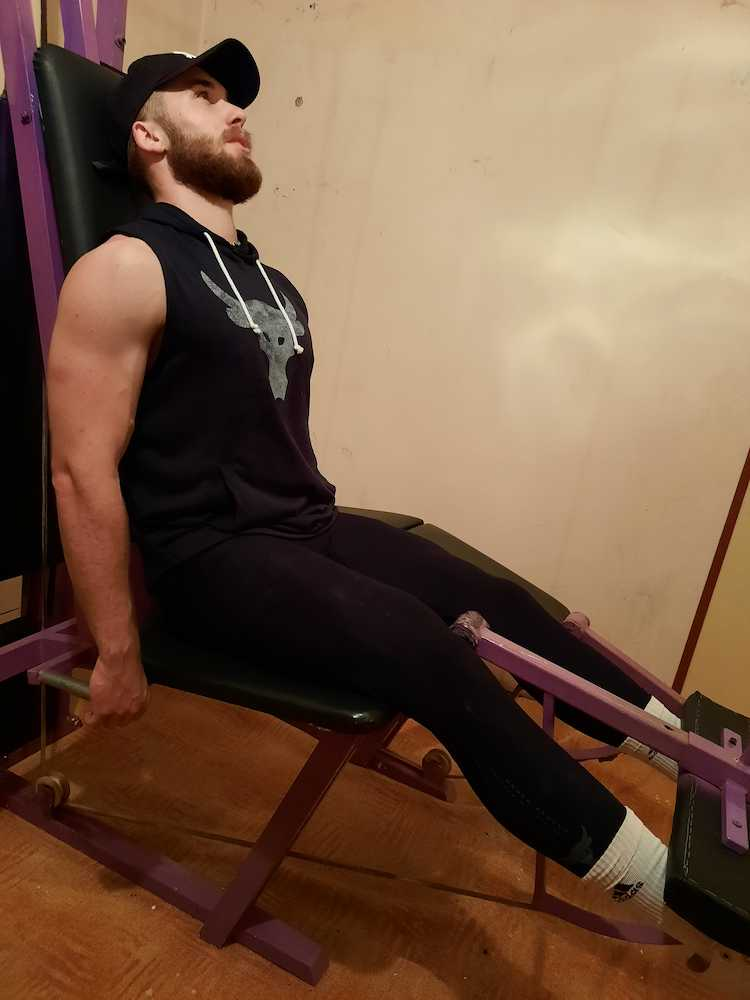
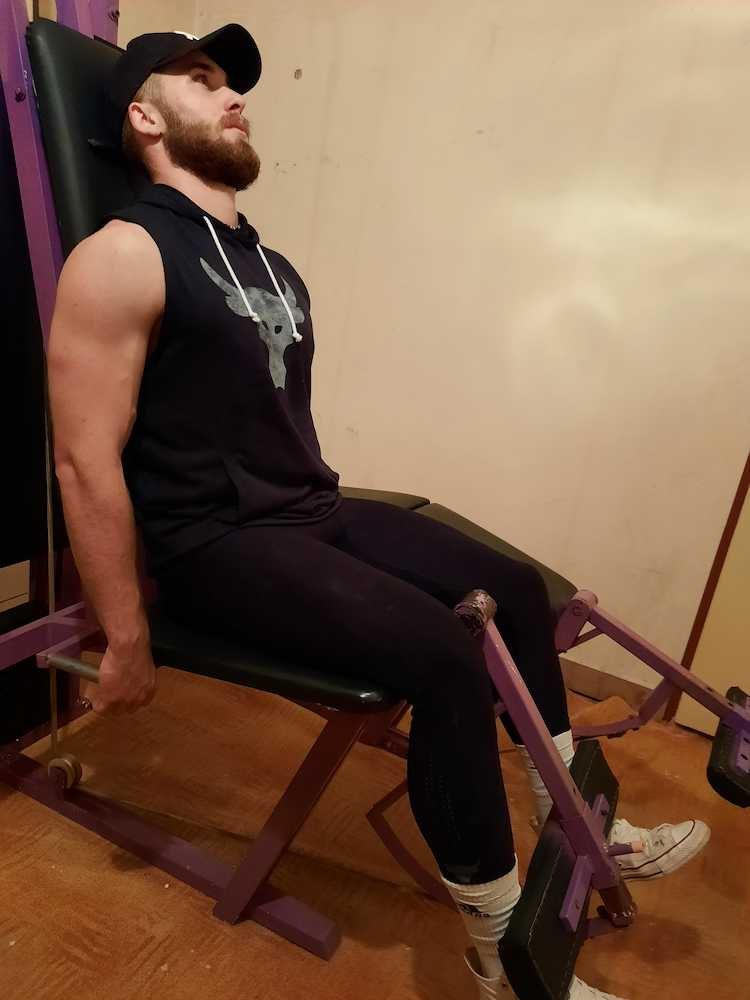
Finale

diff --git a/Stranky/ostatni.html b/Stranky/ostatni.html
@@ -69,10 +69,10 @@
                     </section>
                     <section class="galerie">
                         <div>
-                            <img src="../Obrazky/Ostatni/Ramena/Tlaky/Tlaky.jpg">
+                            <img src="../Obrazky/Ostatni/Ramena/Tlaky/Tlaky.jpg" title="Dolní poloha" width="288" height="384">
                         </div>
                         <div>
-                            <img src="../Obrazky/Ostatni/Ramena/Tlaky/Tlaky2.jpg">
+                            <img src="../Obrazky/Ostatni/Ramena/Tlaky/Tlaky2.jpg" title="Horní Poloha" width="288" height="384">
                         </div>
                     </section>
                 </article>
@@ -82,20 +82,25 @@
                     <section>
                         <section>
                             <h2>Bicepsové zdvihy</h2>
+                            <p>Bicepsové svaly jsou jedním z mála partií které lze jen obtížně cvičit komplexně (spolu s dalšími partiemi).</p>
+                            <p>Tento cvik je velmi populární a lze ho vidět i v mnoha filmech. I přes jeho popularitu ho mnoho lidí vykonává s chybama a tím zbytečně snižuje účinost cviku.</p>
+                            <p>Celí cvik provádíme ve stoje. Výchozí pozicí nejsou plně napjaté ruce, ale mírně pokrčené (při plném napnutí nám již svaly plně nepracují ale zátěž přebírají šlachy a klouby).</p>
+                            <p>Při pohybu rukou nahoru dbáme na lokty které by se neměli hýbat. Jejich pohybem zapojujeme další svaly a tím snižujeme práci bicepsu.</p>
+                            <p>Dále se při pohybu a především dotahu nesmíme hýbat v trupu. Ačkoli nám to může pomoci zvýšit zátěž může zde vznikat několik dalších problémů a opět snižujeme zatížení námi požadovaného bicepsu.</p>
                         </section>
                     </section>
                     <section class="galerie">
                         <div>
-                            <img src="../Obrazky/Ostatni/Biceps/Klasicke1.jpg">
+                            <img src="../Obrazky/Ostatni/Biceps/Klasicke1.jpg" title="Dolní poloha" width="288" height="384">
                         </div>
                         <div>
-                            <img src="../Obrazky/Ostatni/Biceps/Klasicke2.jpg">
+                            <img src="../Obrazky/Ostatni/Biceps/Klasicke2.jpg" title="Mezipoloha" width="288" height="384">
                         </div>
                         <div>
-                            <img src="../Obrazky/Ostatni/Biceps/Klasicke3.jpg">
+                            <img src="../Obrazky/Ostatni/Biceps/Klasicke3.jpg" title="Horní Poloha" width="288" height="384">
                         </div>
                         <div>
-                            <img src="../Obrazky/Ostatni/Biceps/Klasicke4.jpg">
+                            <img src="../Obrazky/Ostatni/Biceps/Klasicke4.jpg" title="Pohled ze předu" width="288" height="384">
                         </div>
                     </section>
                 </article>
@@ -104,19 +109,26 @@
                 <article>
                     <section>
                         <h2>Bicepsové kladivové zdvihy</h2>
+                        <p>Cvik téměř stejný jako bicepsové zdvihy. Jedinou výraznou změnou je větší zapojení předloktí.</p>
+                        <p>Jinak opět:</p>
+                        <p>Bicepsové svaly jsou jedním z mála partií které lze jen obtížně cvičit komplexně (spolu s dalšími partiemi).</p>
+                        <p>Tento cvik je velmi populární a lze ho vidět i v mnoha filmech. I přes jeho popularitu ho mnoho lidí vykonává s chybama a tím zbytečně snižuje účinost cviku.</p>
+                        <p>Celí cvik provádíme ve stoje. Výchozí pozicí nejsou plně napjaté ruce, ale mírně pokrčené (při plném napnutí nám již svaly plně nepracují ale zátěž přebírají šlachy a klouby).</p>
+                        <p>Při pohybu rukou nahoru dbáme na lokty které by se neměli hýbat. Jejich pohybem zapojujeme další svaly a tím snižujeme práci bicepsu.</p>
+                        <p>Dále se při pohybu a především dotahu nesmíme hýbat v trupu. Ačkoli nám to může pomoci zvýšit zátěž může zde vznikat několik dalších problémů a opět snižujeme zatížení námi požadovaného bicepsu.</p>
                     </section>
                     <section class="galerie">
                         <div>
-                            <img src="../Obrazky/Ostatni/Biceps/Kladivove1.jpg">
+                            <img src="../Obrazky/Ostatni/Biceps/Kladivove1.jpg" title="Dolní poloha" width="288" height="384">
                         </div>
                         <div>
-                            <img src="../Obrazky/Ostatni/Biceps/Kladivove2.jpg">
+                            <img src="../Obrazky/Ostatni/Biceps/Kladivove2.jpg" title="Mezipoloha" width="288" height="384">
                         </div>
                         <div>
-                            <img src="../Obrazky/Ostatni/Biceps/Kladivove3.jpg">
+                            <img src="../Obrazky/Ostatni/Biceps/Kladivove3.jpg" title="Horní Poloha" width="288" height="384">
                         </div>
                         <div>
-                            <img src="../Obrazky/Ostatni/Biceps/Kladivove4.jpg">
+                            <img src="../Obrazky/Ostatni/Biceps/Kladivove4.jpg" title="Pohled ze předu" width="288" height="384">
                         </div>
                     </section>
                 </article>
@@ -124,17 +136,20 @@
             <section class="obsah">
                 <article class="reversed">
                     <section>
-                        <h2>Kliky na bradlech</h2>
+                        <h2>Kliky na bradlech / dipy</h2>
+                        <p>Jak už český název napovídá jedná se svým způsobem o variantu kliků. Oproti standartním klikům zapojujeme v mnohem větší míře horní polovinu těla a střed. Hlavně je zapojen velký prsní sval a triceps.</p>
+                        <p>Cvik se z důvodů náročnosti na minimální sílu standartně dělá pouze s vlastní vahou. Pokud jsme již zkušenější lze přes pásek přidávat váhu pro zvýšení obtížnosti.</p>
+                        <p>Opět po celou dobu cviku máme zpevněné břicho. Z výchozí polohy se pomalu stabilně spouštíme dolů. Stále jsme přitom napřímení, hrudník vypínáme, hledíme stále před sebe. Tělo můžeme pustit do mírného náklonu dopředu.</p>
                     </section>
                     <section class="galerie">
                         <div>
-                            <img src="../Obrazky/Ostatni/Triceps/Dipy1.jpg">
+                            <img src="../Obrazky/Ostatni/Triceps/Dipy1.jpg" title="Horní Poloha" width="288" height="384">
                         </div>
                         <div>
-                            <img src="../Obrazky/Ostatni/Triceps/Dipy2.jpg">
+                            <img src="../Obrazky/Ostatni/Triceps/Dipy2.jpg" title="Mezipoloha" width="288" height="384">
                         </div>
                         <div>
-                            <img src="../Obrazky/Ostatni/Triceps/Dipy3.jpg">
+                            <img src="../Obrazky/Ostatni/Triceps/Dipy3.jpg" title="Dolní poloha" width="288" height="384">
                         </div>
                     </section>
                 </article>
@@ -142,17 +157,21 @@
             <section class="obsah">
                 <article>
                     <section>
-
+                        <h2>Stahování kladky s lanem</h2>
+                        <p>Při cviku by nohy měly být přibližně na šíři ramen, záda narovnaná, břicho zatažené jako u většiny dalších cviků. Lano přibližně v úrovni hrudníku. </p>
+                        <p>Důležité je mít lokty u těla a při celém cviku s nima nehýbat.</p>
+                        <p>Pomalu stahujeme lano dolu, kde na zlomek vteřiny zatněme tricepsy případně si pomůžeme zápěstím pro zvětšení rozsahu.</p>
+                        <p>Lokty by měly být stále v poloze u těla a pomalu povolujeme lano a vracíme se nahoru do výchozí polohy.</p>
                     </section>
                     <section class="galerie">
                         <div>
-                            <img src="../Obrazky/Ostatni/Triceps/Kladka1.jpg">
+                            <img src="../Obrazky/Ostatni/Triceps/Kladka1.jpg" title="Horní Poloha" width="288" height="384">
                         </div>
                         <div>
-                            <img src="../Obrazky/Ostatni/Triceps/Kladka2.jpg">
+                            <img src="../Obrazky/Ostatni/Triceps/Kladka2.jpg" title="Mezipoloha" width="288" height="384">
                         </div>
                         <div>
-                            <img src="../Obrazky/Ostatni/Triceps/Kladka3.jpg">
+                            <img src="../Obrazky/Ostatni/Triceps/Kladka3.jpg" title="Dolní poloha" width="288" height="384">
                         </div>
                     </section>
                 </article>

diff --git a/Stranky/prsa.html b/Stranky/prsa.html
@@ -62,13 +62,25 @@
                 <article>
                     <section>
                         <h2>Bench press</h2>
-                        <p>Velmi efektivní na budování svalového objemu a síly prsních svalů, tricepsů a ramen.</p>
-                        <p>Primárně jsou zapojeny prsa, ramena a triceps. Kromě těchto svalů se zapojují i zadní ramena, hamstringy, gluteály, mezilopatkové svaly a široké svaly zádové.</p>
-                        <p>Celý cvik se provádí v leže na lavici. Nohy na zemi (Některé varianty se provádí bez dotyku na zem) záda mírně prohnuté tzv. most (nedoporučuje se dělat do extrému může dojít ke zranění) lopatky k sobě. Úchop záleží na variantě (úzký / široký).</p>
-                        <ol title="Nejčastější chyby: ">
-                            <li>Ohýbání zápěstí</li>
-                            <li>Odrážení osy od hrudníku</li>
-                            <li>Neaktivování svalů</li>
+                        <p>Velmi efektivní cvik na budování svalového objemu a síly prsních svalů, tricepsů a ramen.</p>
+                        <p>Primárně jsou zapojeny prsa, ramena a triceps. Kromě těchto svalů se zapojují i zadní ramena, hamstringy, mezilopatkové svaly a široké svaly zádové.</p> 
+                        <ol>
+                            <li>
+                                <h3>Postoj</h3>
+                                <p>Cvik se provádí v leže na lavici. Nohy na zemi (Některé varianty se provádí bez dotyku nohou na zem) záda mírně prohnuté tzv. most (nedoporučuje se dělat do extrému může dojít ke zranění ale vynechání snižuje využití některých partií) lopatky k sobě. Úchop záleží na variantě (úzký / široký) ale rozhodně neohýbáme dlaně.</p>
+                            </li>
+                            <li>
+                                <h3>Příprava</h3>
+                                <p>Stabilizujeme se a zpevníme břicho nádechem. Nezapomínáme neohýbat dlaně.</p>
+                            </li>
+                            <li>
+                                <h3>Pohyb dolů</h3>
+                                <p>Osu spouštíme mírně pod prsa až do lehkého dotyku. Nepokládáme na sebe větší vahou!</p>
+                            </li>
+                            <li>
+                                <h3>Pohyb zpět</h3>
+                                <p>I při samotném tlaku neohýbáme dlaně a snažíme se o rovnoměrný tlak.</p>
+                            </li>
                         </ol>
                     </section>
                     <section class="galerie">
@@ -89,7 +101,9 @@
                     <section>
                         <h2>Rozpažování na rovné lavici</h2>
                         <p>Podobné jako BenchPress zabírají prsní svaly, triceps, biceps a ramena.</p>
-                        <p>Cvik se provádí v leže na lavici. Činky se drží nadhmatem. Nohy jsou zapřené o zem. S nádechem spouštějte činky plynule dolů po dráze oblouku do stran, až do maximálního protažení prsních svalů, pak s výdechem zpět po stejné dráze do výchozí pozice.</p>
+                        <p>Cvik se provádí v leže na lavici (případně na sklopné lavici). Činky se drží nadhmatem. Nohy jsou zapřené o zem. S nádechem spouštějte činky plynule dolů po dráze oblouku do stran, až do maximálního protažení prsních svalů, pak s výdechem zpět po stejné dráze do výchozí pozice.</p>
+                        <p>Stejně jako při bench pressu neohýbáme dlaně a máme zpevněné břišní svaly.</p>
+                        <p>Na provedení je nejtěžší rovnoměrné zapojení svalů. Proto bychom se vždy měli soustředit a mít obě ruce vyvážené.</p>
                     </section>
                     <section class="galerie">
                         <div>
@@ -111,7 +125,9 @@
                 <article>
                     <section>
                         <h2>Stahování protisměrných kladek</h2>
-                        <p>Lokty ve stejné poloze. Směřujeme před sebe a mírně dolu bez pohybu v zádech. Pokud se budeme více při cviku předklánět tím více budeme zapojovat střední a horní část prsních svalů.</p>
+                        <p>Cvik provádíme na horních protisměrných kladkách. Narozdíl od například bench pressu zde máme možnost většího protažaní svalů jelikož můžeme jit se zátěží přes půlku těla.</p>
+                        <p>Lokty máme po celou dobu cviku ve stejné poloze. Směřujeme před sebe a mírně dolu bez pohybu v zádech. Čím více se budeme více při cviku předklánět tím více budeme zapojovat střední a horní část prsních svalů.</p>
+                        <p>Jako u většiny cviku je vhodné si experimentováním najít pro nás vyhovující pozici a styl kde svaly zabírají nejvíce. Dále můžeme zkusit další varianty jako například nej jednou rukou nebo variantu na spodních protisměrných kladkách.</p>
                     </section>
                     <section class="galerie">
                         <div>
@@ -130,9 +146,10 @@
                 <article class="reversed">
                     <section>
                         <h2>Tlaky s jednoručkami</h2>
-                        <p>Hlavně zabírá velký prsní sval a dále zabírá sval deltový, malý prsní, triceps.</p>
-                        <p>Různé varianty tlaků jsou základními cviky pro prsních svalů. Oproti cvikům s osou (bench press) je větší rozsah pohybu.</p>
+                        <p>Hlavně zabírá velký prsní sval a dále zabírá sval deltový, malý prsní a triceps.</p>
+                        <p>Různé varianty tlaků jsou základními cviky pro prsních svalů. Oproti cvikům s osou (bench press) je větší rozsah pohybu směrem k zemi.</p>
                         <p>Nejrozšířenější je varianta na rovné lavici. Celý cvik se vykonává velmi podobně jako u bench pressu. Hrudní vypnutý vzhůru, ramena stažená dolů, chodidla na podlaze. Nádech při poklesu činek dolu a výdech při tlaku.</p>
+                        <p>Dalšími variantamy může být různě nakloněná lavice.</p>
                     </section>
                     <section class="galerie">
                         <div>
@@ -154,6 +171,7 @@
                         <p>
                             Důležité je při cviku zůstat ve vodorovné poloze. Ruce položené dlaněmi na zem pod pravým úhlem, prsty směřují vodorovně vpřed nebo lehce šikmo od sebe. 
                         </p>
+                        <p>Opět existuje mnoho variací cviku dokonce i se zaměřením na různé partie.</p>
                     </section>
                     <section class="galerie">
                         <div>

diff --git a/index.html b/index.html
@@ -20,18 +20,18 @@
             
                 <ul role="menu">
                     <li role="menuitem">
-                        <a class="odkaz actual" tabindex="1" href="index.html">O nás</a>
+                        <a class="odkaz actual" href="index.html">O nás</a>
                     <li role="menuitem">    
-                        <a class="odkaz" tabindex="1" href="Stranky/prsa.html">Prsa</a>
+                        <a class="odkaz" href="Stranky/prsa.html">Prsa</a>
                     </li>
                     <li role="menuitem">
-                        <a class="odkaz" tabindex="1" href="Stranky/zada.html">Záda</a>
+                        <a class="odkaz" href="Stranky/zada.html">Záda</a>
                     </li>
                     <li role="menuitem">
-                        <a class="odkaz" tabindex="1" href="Stranky/nohy.html">Nohy</a>
+                        <a class="odkaz" href="Stranky/nohy.html">Nohy</a>
                     </li>
                     <li role="menuitem">
-                        <a class="odkaz" tabindex="1" href="Stranky/ostatni.html">Ostatní</a>
+                        <a class="odkaz" href="Stranky/ostatni.html">Ostatní</a>
                     </li>
                 </ul>
             
@@ -41,18 +41,18 @@
                 <nav>
                     <ul role="menu">
                         <li role="menuitem">
-                            <a class="odkaz actual" tabindex="1"  href="index.html">O nás</a>
+                            <a class="odkaz actual" href="index.html">O nás</a>
                         <li role="menuitem">    
-                            <a class="odkaz" tabindex="1" href="Stranky/prsa.html">Prsa</a>
+                            <a class="odkaz" href="Stranky/prsa.html">Prsa</a>
                         </li>
                         <li role="menuitem">
-                            <a class="odkaz" tabindex="1" href="Stranky/zada.html">Záda</a>
+                            <a class="odkaz" href="Stranky/zada.html">Záda</a>
                         </li>
                         <li role="menuitem">
-                            <a class="odkaz" tabindex="1" href="Stranky/nohy.html">Nohy</a>
+                            <a class="odkaz" href="Stranky/nohy.html">Nohy</a>
                         </li>
                         <li role="menuitem">
-                            <a class="odkaz" tabindex="1" href="Stranky/ostatni.html">Ostatní</a>
+                            <a class="odkaz" href="Stranky/ostatni.html">Ostatní</a>
                         </li>
                     </ul>
                 </nav>
@@ -99,7 +99,7 @@
                 <article>
                     <section>
                         <h2>Kontakt</h2>
-                        <p>Máme i facebook kde naleznete novinky z naší posilovny a také se zde můžete spojit s jejich členy kteří vám rádi pomohou. V případě zájmu si také můžete zařídit členství
+                        <p>Máme i facebook kde naleznete novinky z naší posilovny a také se zde můžete spojit s jejich členy kteří vám v případě dotazů rádi pomohou. V případě zájmu si také můžete zařídit roční členství které aktuálně nabízíme za 500Kč a 30Kč za klíč (jednorázově).
                         </p>
                     </section>
                     <section id="facebook">
@@ -108,10 +108,10 @@
                 </article>
             </section>
             <section class="obsah">
-                <article>
+                <article class="reversed">
                     <section>
                         <h2>Kde nás najdete</h2>
-                        <p>Smidarká činkárna se nachází v prostorách ZŠ a MŠ Smidary v budově dílen</p>
+                        <p>Smidarká činkárna se nachází v areálnu ZŠ a MŠ Smidary v budově dílen.</p>
                     </section>
                     <section id="mapa">
                         <!--<iframe src="https://www.google.com/maps/embed?pb=!1m18!1m12!1m3!1d464.91130337377956!2d15.479710731550623!3d50.28905682580907!2m3!1f0!2f0!3f0!3m2!1i1024!2i768!4f13.1!3m3!1m2!1s0x470c20ecd6b529b3%3A0x7efc88e9dbb75f22!2zxaBrb2xuw60gSsOtZGVsbmE!5e0!3m2!1scs!2scz!4v1638790352912!5m2!1scs!2scz" width="100%" style="border:0;" allowfullscreen="" loading="lazy" SameSite="Strict" title="Mapy"></iframe>-->

diff --git a/Stranky/zada.html b/Stranky/zada.html
@@ -94,14 +94,12 @@
                                     Snažíme se zvedat rovnoměrně s maximálním srovnáním zad a zatnutým břichem.
                                 </p>
                                 <p>
-                                    Při dosažení vzpřímené polohy bychom neměli plně vydechnout, jelikož dojde k destabilizaci.                                </p>
+                                    Při dosažení vzpřímené polohy bychom neměli plně vydechnout, jelikož dojde k destabilizaci.
+                                </p>
                             </li>
                             <li>
-                                <h3>
-                                    Pohyb zpět
-                                </h3>
-                                <p>
-                                    Je vhodné dodržovat techniku i při odkládání činky. Pokud nejedete maximální váhy lze i při pokládání zpomalit, aby byli svaly znovu využity. Ve chvíli, kdy činku položíme můžeme opakovat celý cvik. Je doporučováno nejen pro udržení techniky činku položit a neodrazit od země.                                </p>
+                                <h3>Pohyb zpět</h3>
+                                <p>Je vhodné dodržovat techniku i při odkládání činky. Pokud nejedete maximální váhy lze i při pokládání zpomalit, aby byli svaly znovu využity. Ve chvíli, kdy činku položíme můžeme opakovat celý cvik. Je doporučováno nejen pro udržení techniky činku položit a neodrazit od země.</p>
                             </li>
                         </ol>
                     </section>

diff --git a/Stranky/nohy.html b/Stranky/nohy.html
@@ -120,14 +120,19 @@
             <section class="obsah">
                 <article class="reversed">
                     <section>
-
+                        <h2>Předkopávání</h2>
+                        <p>Jedná se o izolovaný cvik na stehna. Narozdíl od dřepů jsou zapojeny výhradně na čtyřhlavý sval stehenní.</p>
+                        <p>Cvik je vhodný zejména pro "dopumpování" svalů po dřepech.</p>
+                        <p>Nevýhodou je nutnost stroje ale za to je cvik velmi účinný a již při cvičení můžeme cítit jeho efekt.</p>
+                        <p>Doporučuje se spíše menší zátěž s vyšším počtem opakování.</p>
+                        <p>Celý cvik bychom měli provádět plynule a bez uvolnění ve spodní fázi (tj. mít sval neustále v kontrakci).</p>
                     </section>
                     <section class="galerie">
                         <div>
-                            <img src="../Obrazky/Nohy/Predkopavani/Predkopavani1.jpg">
+                            <img src="../Obrazky/Nohy/Predkopavani/Predkopavani1.jpg" title="Dolní poloha" width="288" height="384">
                         </div>
                         <div>
-                            <img src="../Obrazky/Nohy/Predkopavani/Predkopavani2.jpg">
+                            <img src="../Obrazky/Nohy/Predkopavani/Predkopavani2.jpg" title="Horní poloha" width="288" height="384">
                         </div>
                     </section>
                 </article>
